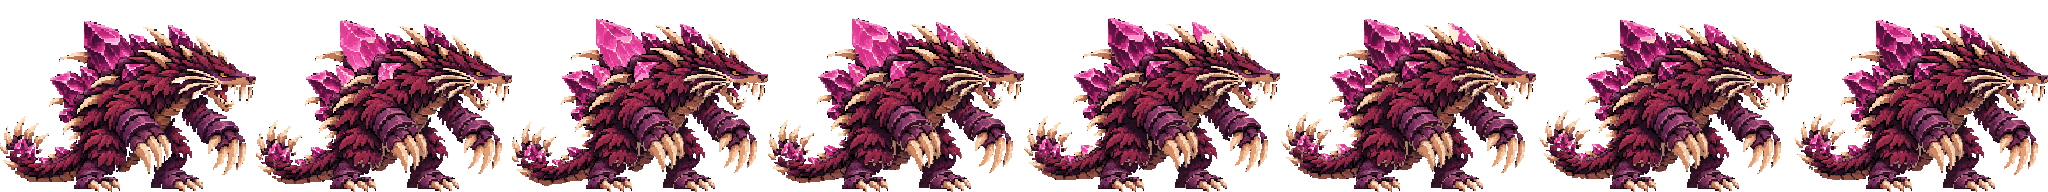
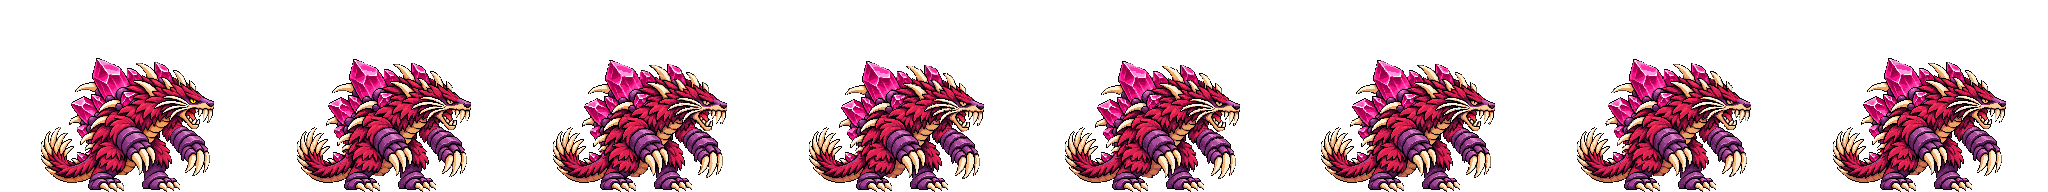
Rebuild Mogurodon Stage 3 base, idle and walk from the transparent render
The old Stage 3 base was keyed from a black-background render on a wrong
pixel grid, so it lost its outline and joint creases (see-through gaps) and
had unevenly doubled pixels, and every strip generated from it inherited
that. The new base is keyed from the transparent render with
tools/key_render.py at native resolution (173x134 at x=41 in a 256x192
frame), with its outline intact.

Idle and walk are regenerated from it with PixelLab (one generation each,
base pose as first and last frame), then fill_pinholes and remove_specks.
Enclosed holes per frame dropped from 77-244px to the base's own openings,
stray clumps from up to 86px to none. Both draw through S3_NATIVE
(scale 173/256, anchor 127.5) at the same width and feet position as
before. The render's true aspect makes him ~16% taller than the stretched
old art; the hitbox is unchanged. The other Stage 3 strips still use the
old art until they are regenerated.

Claude-Session: https://claude.ai/code/session_01SJ9dCxQEZcSV2FHfL88Zkr

diff --git a/src/presentation.ts b/src/presentation.ts
@@ -36,6 +36,9 @@ type Strip={src:string,frames:number,fps:number,once?:boolean,impact?:number,sca
 // Within a stage form a missing animation falls back to that form's own `idle`, so a new form can ship with only a few strips.
 type Form={width:number,anims:Record<string,Strip>};
 const S1_PAD={scale:205/256,anchor:10+128*205/256};
+// Stage 3 strips generated from the native-resolution base (assets/mogurodon-s3.png: the 173px-wide sprite at x=41, one art pixel per
+// pixel, keyed from the transparent render with tools/key_render.py) instead of a stretched full-frame one.
+const S3_NATIVE={scale:173/256,anchor:41+128*173/256};
 export const SPRITES:Record<string,Form&{stages?:Record<number,Form>}>={
  Mogurodon:{width:120,anims:{idle:{src:'assets/mogurodon-idle.png',frames:8,fps:8},walk:{src:'assets/mogurodon-walk.png',frames:8,fps:10},
   // Light combo by hit order (each form picks its own moves): Stage 2 = right-arm swipe, left-arm swipe, bite.
@@ -84,7 +87,7 @@ export const SPRITES:Record<string,Form&{stages?:Record<number,Form>}>={
    carry:{src:'assets/mogurodon-s1-carry.png',frames:4,fps:6,...S1_PAD,hold:[145,27]},carryWalk:{src:'assets/mogurodon-s1-carry-walk.png',frames:8,fps:10,...S1_PAD,hold:[144,26]},
    throw:{src:'assets/mogurodon-s1-throw.png',frames:8,fps:18,once:true,...S1_PAD}}},
   // Stage 3 form: 256x192 base still (feet on the bottom row), idle and walk animated, other strips still fall back to idle; combat timing falls back to the base form.
-  3:{width:120,anims:{idle:{src:'assets/mogurodon-s3-idle.png',frames:8,fps:8},walk:{src:'assets/mogurodon-s3-walk.png',frames:8,fps:10},
+  3:{width:120,anims:{idle:{src:'assets/mogurodon-s3-idle.png',frames:8,fps:8,...S3_NATIVE},walk:{src:'assets/mogurodon-s3-walk.png',frames:8,fps:10,...S3_NATIVE},
    light1:{src:'assets/mogurodon-s3-light1.png',frames:8,fps:24,once:true,...S1_PAD},light2:{src:'assets/mogurodon-s3-light2.png',frames:8,fps:21,once:true},light3:{src:'assets/mogurodon-s3-light3.png',frames:8,fps:20,once:true,...S1_PAD},
    heavyRear:{src:'assets/mogurodon-s3-heavy-rear.png',frames:5,fps:20,once:true,...S1_PAD},heavyHold:{src:'assets/mogurodon-s3-heavy-hold.png',frames:4,fps:10,...S1_PAD},
    heavySlam:{src:'assets/mogurodon-s3-heavy-slam.png',frames:8,fps:16,once:true,...S1_PAD},
